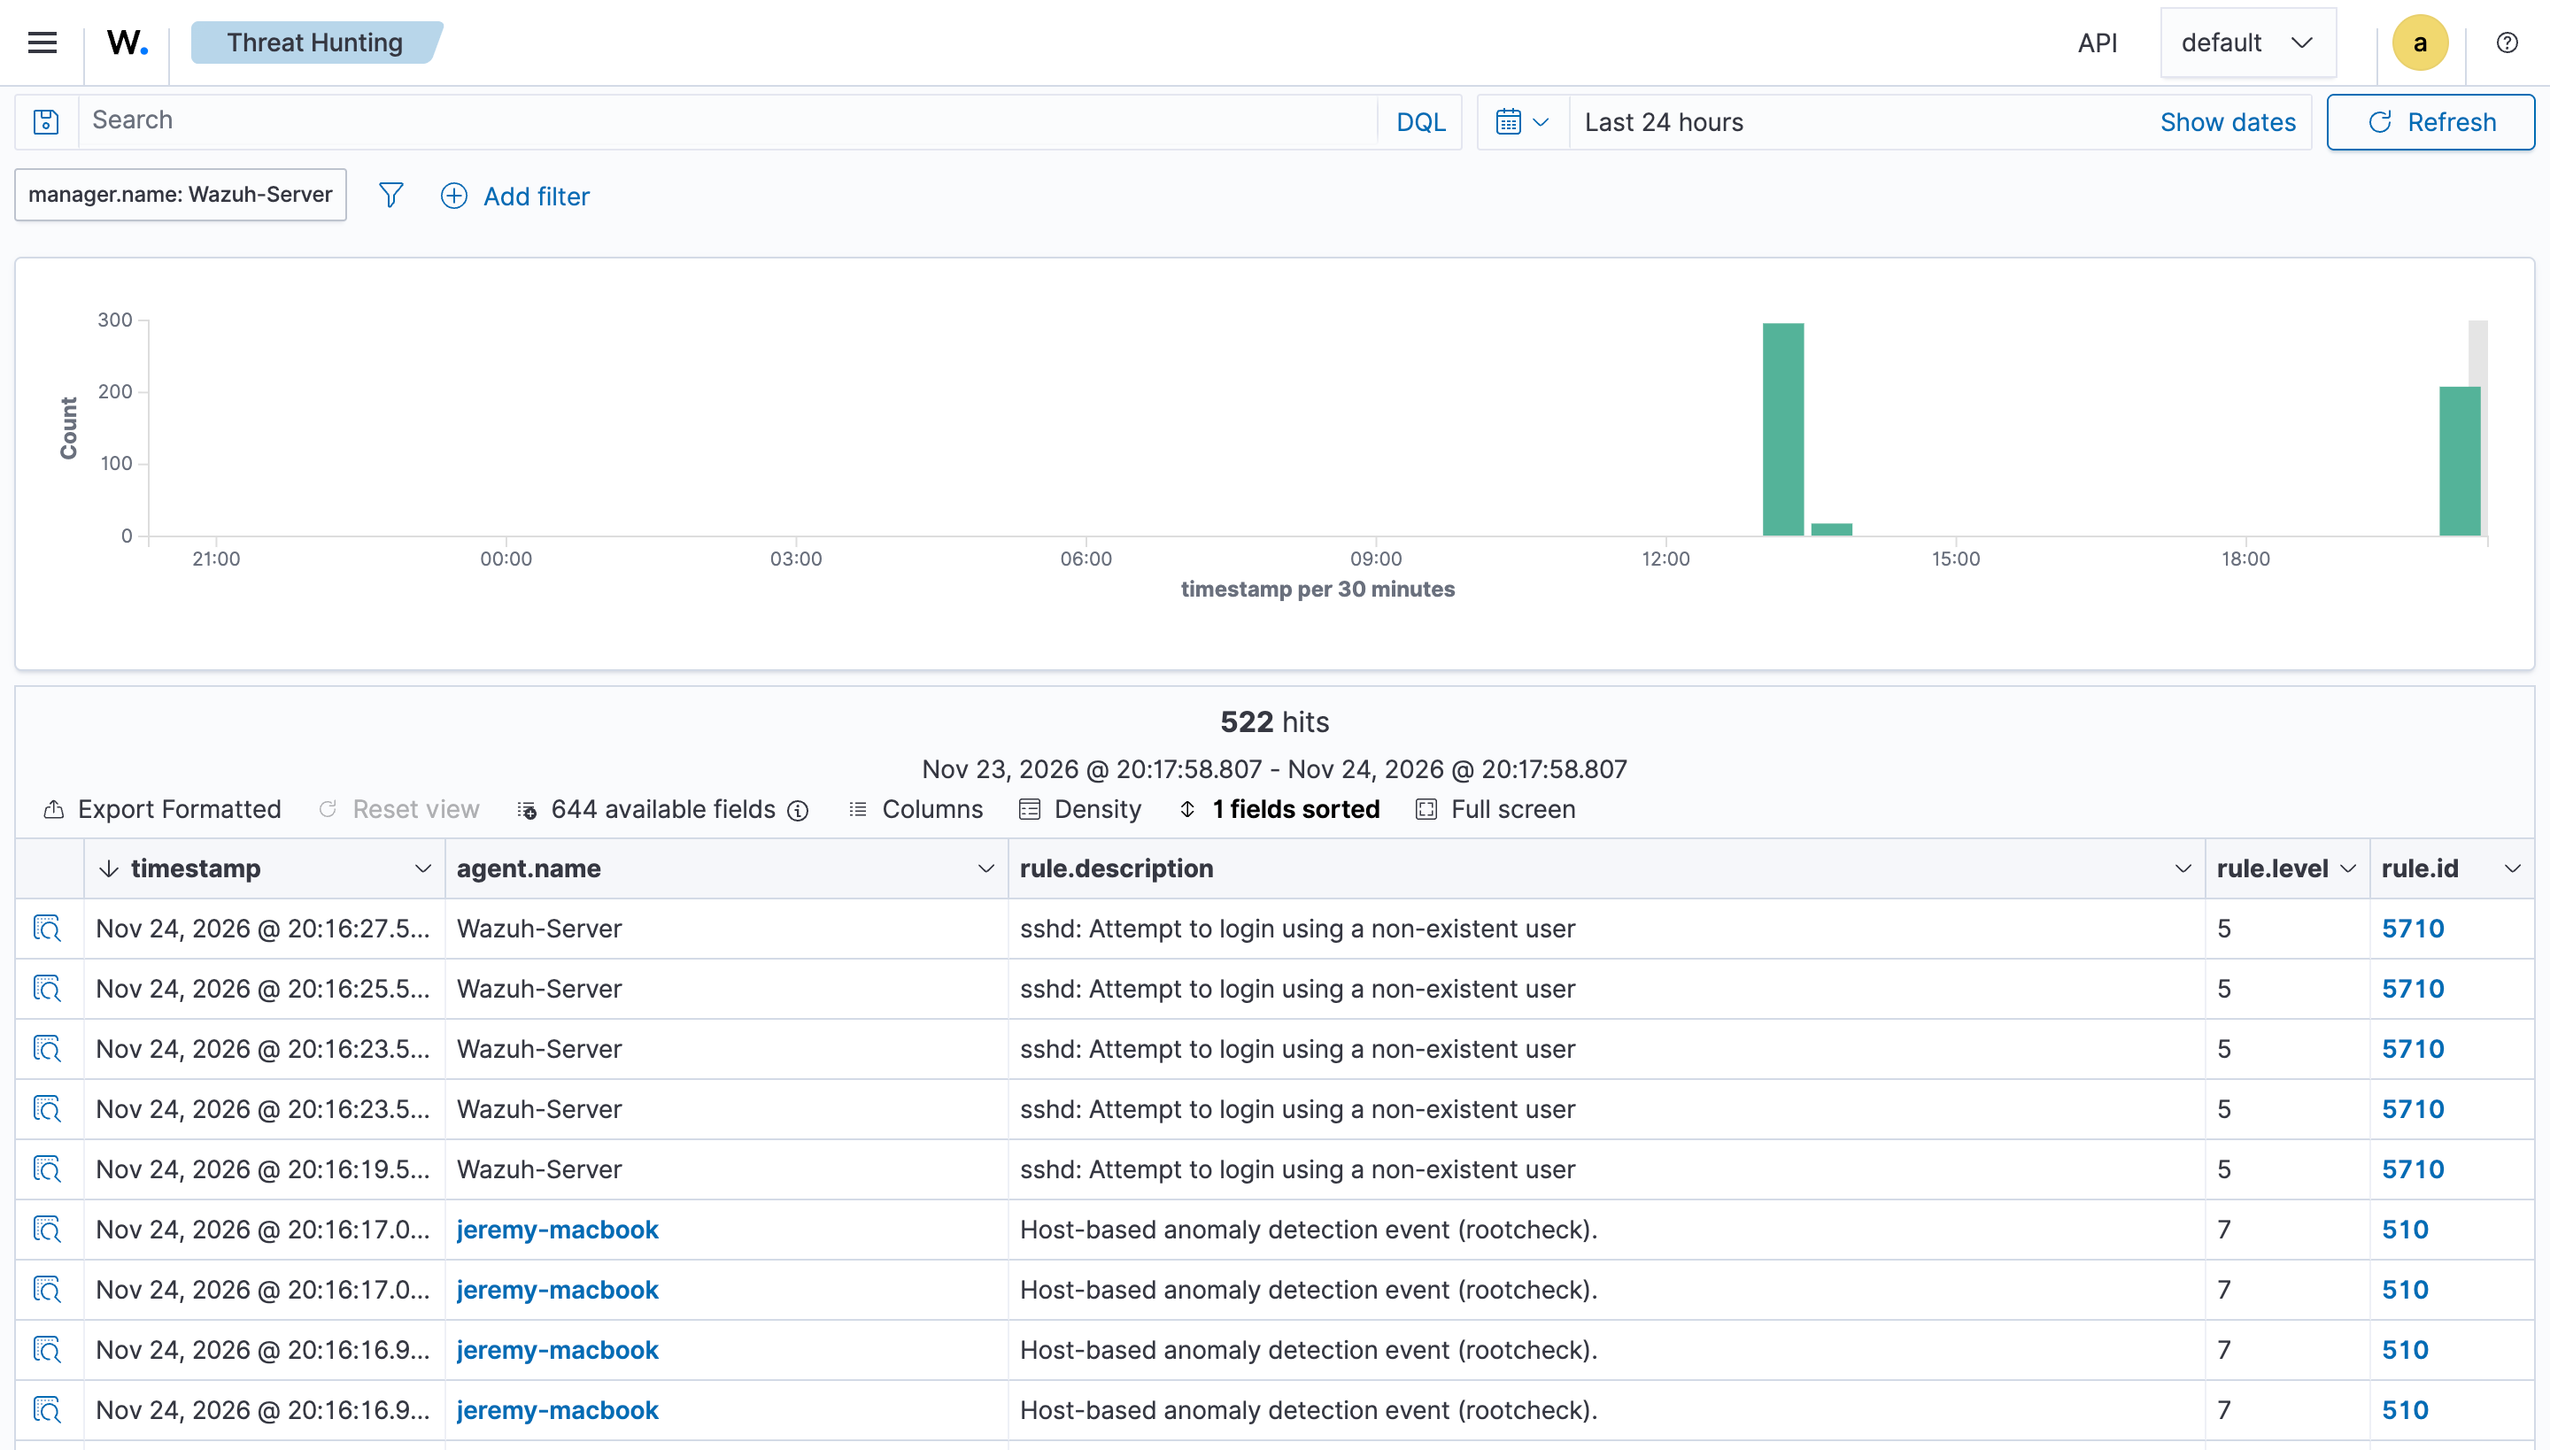
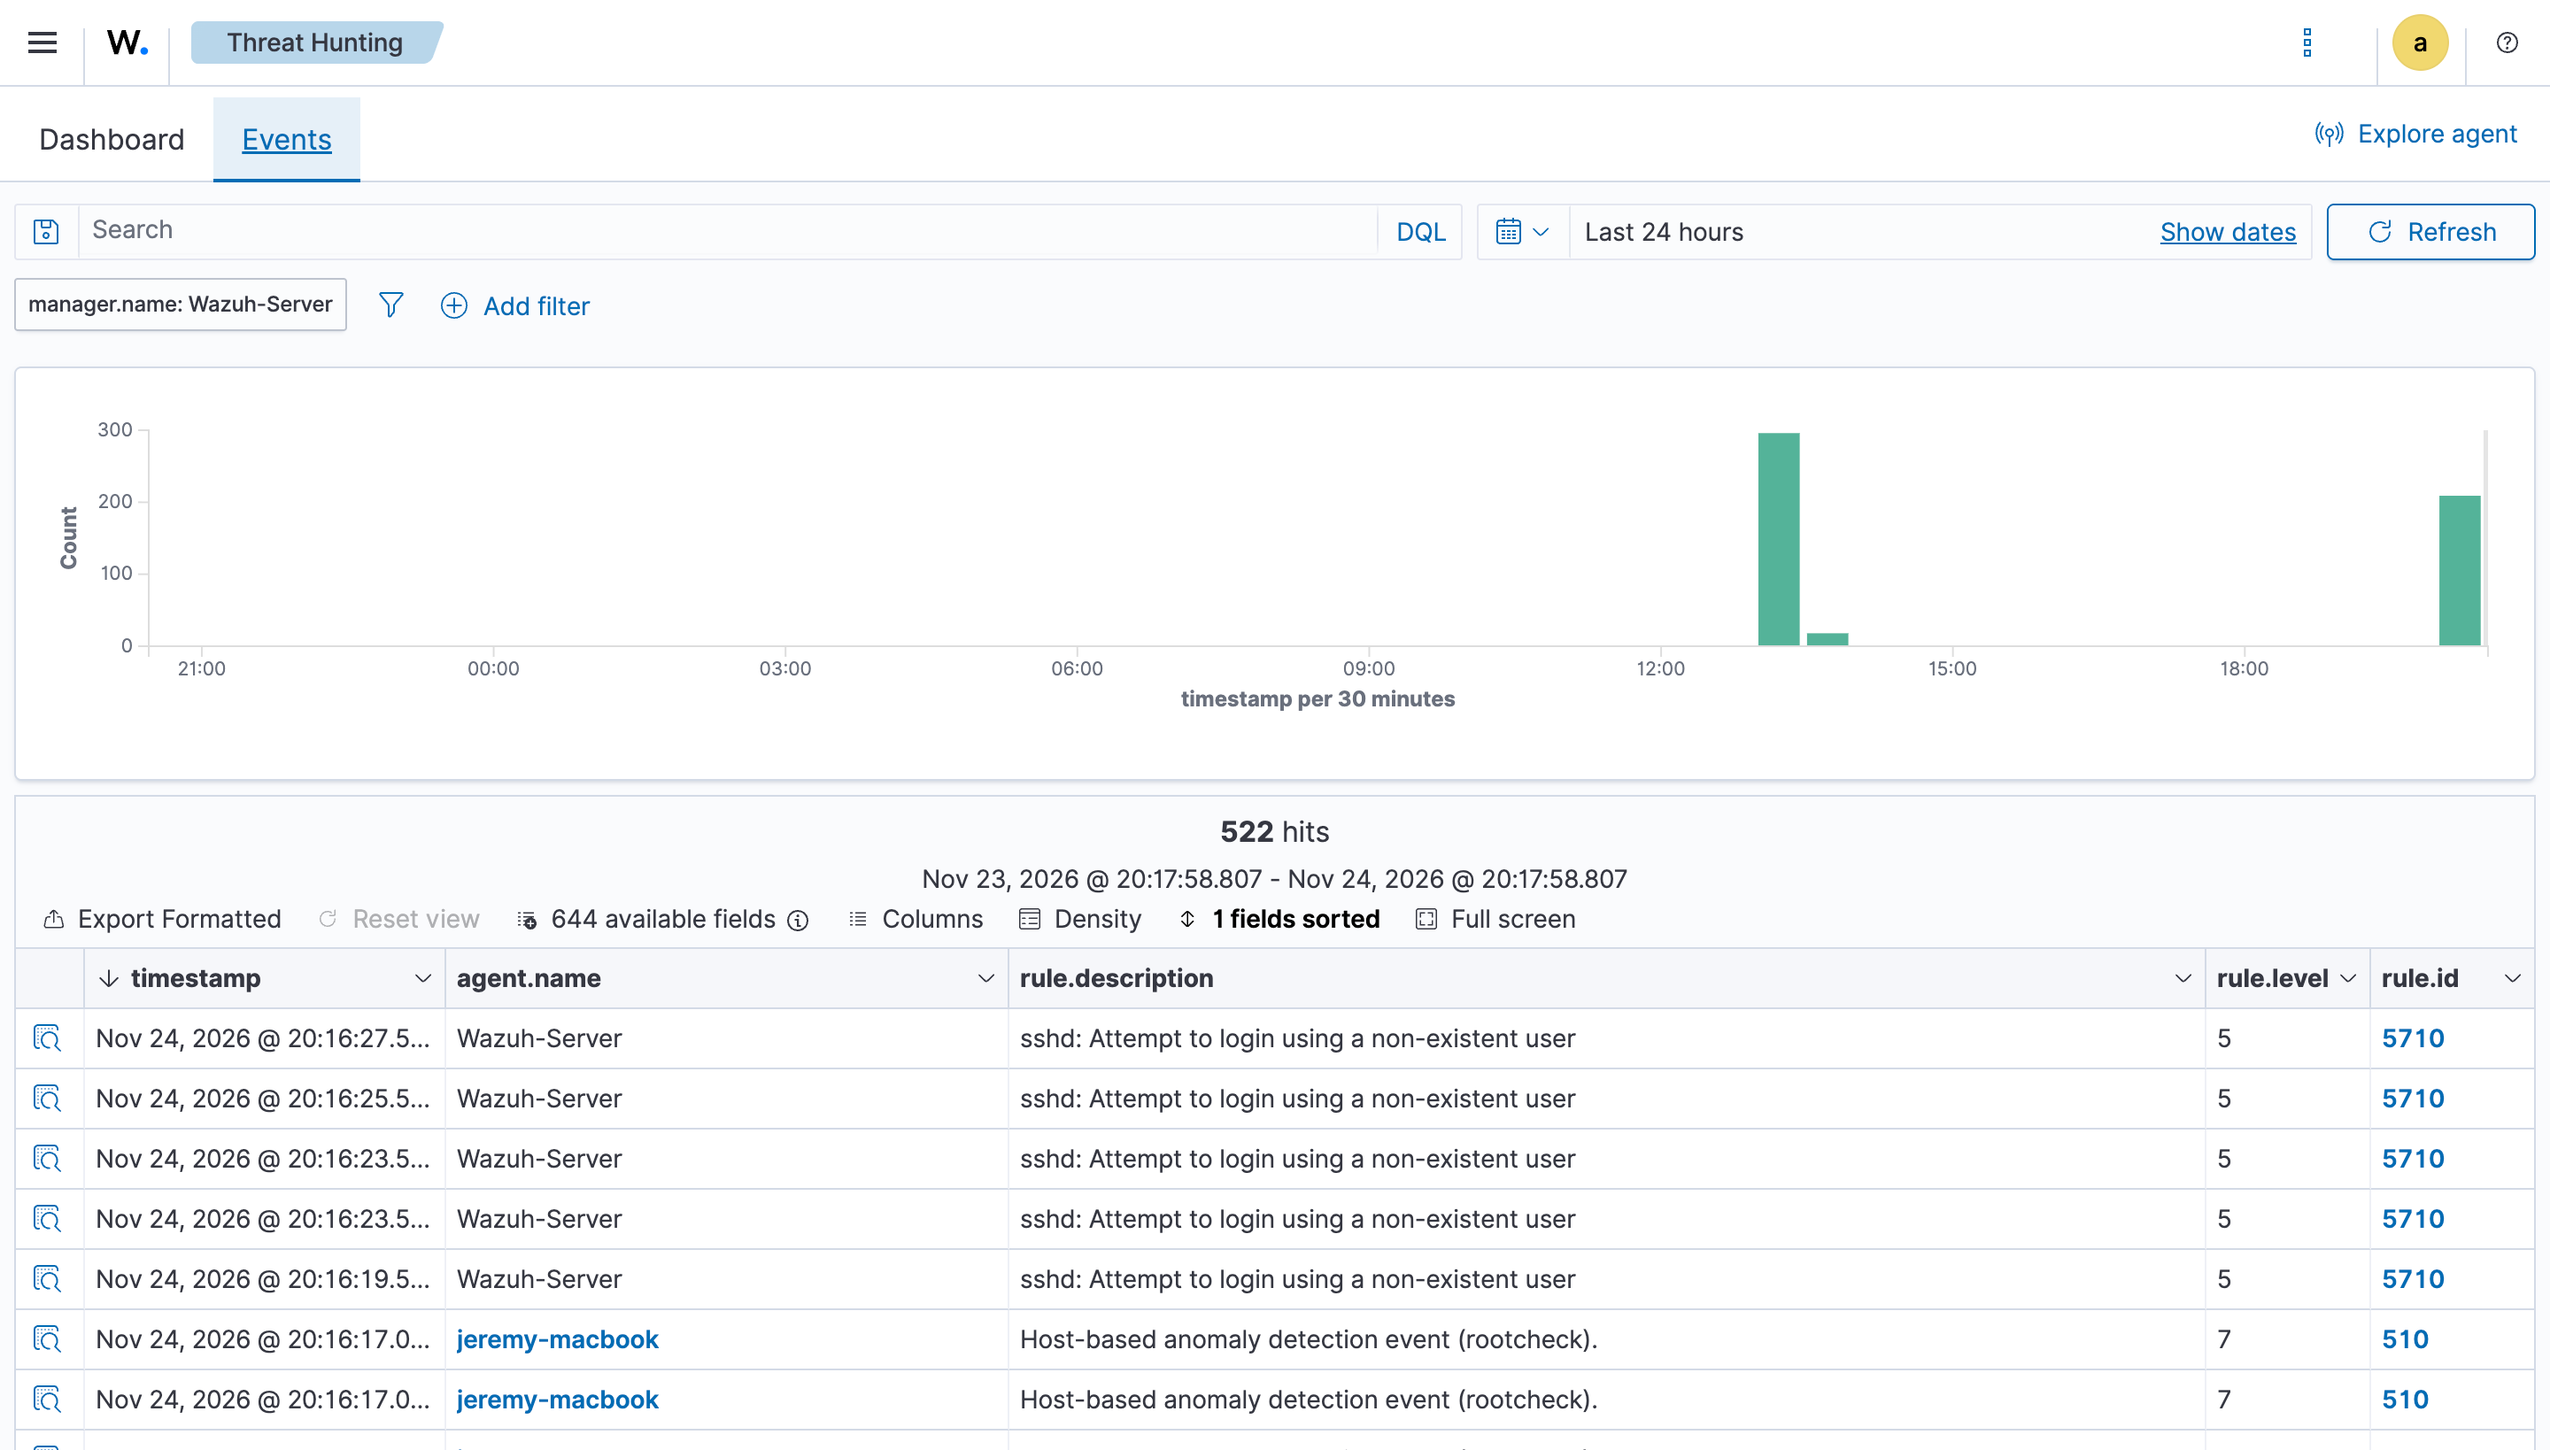
Show first detection screenshot in README

diff --git a/README.md b/README.md
@@ -4,6 +4,10 @@ A SIEM I set up in Azure to learn how security monitoring and detection actually
 
 I'm using it to practice writing detection rules, triaging alerts, and eventually feeding its vulnerability findings into my [vulnerability prioritization tool](https://github.com/jeremywhitlockk/vulnerability-prioritization-tool).
 
+![Wazuh Threat Hunting showing failed SSH login alerts](docs/images/ssh-failed-login-alerts.png)
+
+*My first detection test: failed SSH logins against the server, caught by Wazuh rule 5710, alongside alerts from my Mac's agent.*
+
 ## Setup
 
 ```mermaid
